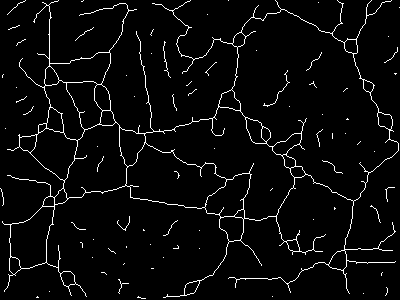
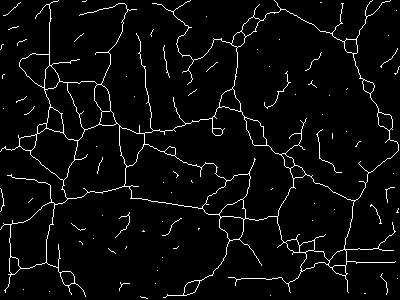
comparison with ground truth G values a 3.4% error

diff --git a/utils/ground_truth_analysis.py b/utils/ground_truth_analysis.py
@@ -1,0 +1,96 @@
+# utils/ground_truth_analysis.py
+
+import cv2
+import numpy as np
+import math
+import os
+import sys
+sys.path.append(os.path.dirname(os.path.dirname(os.path.abspath(__file__))))
+from config import SEGMENTED_DIR, MICRONS_PER_PIXEL, NUM_TEST_LINES
+
+
+def compute_gt_skeleton(seg_path):
+    """
+    Convert ground truth filled-region image into a boundary skeleton
+    so we can run the same ASTM analysis on it.
+    Ground truth: white = grain interior, black = boundaries.
+    We extract the boundary edges from it.
+    """
+    seg = cv2.imread(seg_path, cv2.IMREAD_GRAYSCALE)
+    if seg is None:
+        return None
+
+    # Threshold to clean binary
+    _, binary = cv2.threshold(seg, 127, 255, cv2.THRESH_BINARY)
+
+    # Extract boundaries by finding edges between grain regions
+    # Canny on the ground truth gives us the boundary lines
+    boundaries = cv2.Canny(binary, 10, 50)
+
+    # Dilate slightly to ensure connected boundaries
+    kernel = cv2.getStructuringElement(cv2.MORPH_ELLIPSE, (3, 3))
+    boundaries = cv2.dilate(boundaries, kernel, iterations=1)
+
+    return boundaries, seg
+
+
+def analyze_ground_truth(image_filename):
+    """
+    Run ASTM intercept analysis on the ground truth segmentation.
+    Returns G number from ground truth.
+    """
+    name = os.path.splitext(image_filename)[0]
+    seg_path = os.path.join(SEGMENTED_DIR, f"{name}_seg.jpg")
+
+    if not os.path.exists(seg_path):
+        print(f"  No ground truth found for {image_filename}")
+        return None
+
+    result = compute_gt_skeleton(seg_path)
+    if result is None:
+        return None
+
+    gt_skeleton, seg = result
+    h, w = gt_skeleton.shape
+
+    # Run same ASTM intercept counting on ground truth skeleton
+    test_lines = []
+    for i in range(1, NUM_TEST_LINES + 1):
+        y = int(h * i / (NUM_TEST_LINES + 1))
+        test_lines.append(("H", y))
+    for i in range(1, NUM_TEST_LINES + 1):
+        x = int(w * i / (NUM_TEST_LINES + 1))
+        test_lines.append(("V", x))
+
+    total_length_mm     = 0
+    total_intersections = 0
+
+    for line_type, pos in test_lines:
+        if line_type == "H":
+            line_pixels    = gt_skeleton[pos, :]
+            line_length_px = w
+        else:
+            line_pixels    = gt_skeleton[:, pos]
+            line_length_px = h
+
+        line_length_mm = line_length_px * MICRONS_PER_PIXEL / 1000
+
+        intersections = 0
+        in_boundary   = False
+        for px in line_pixels:
+            if px > 127 and not in_boundary:
+                intersections += 1
+                in_boundary = True
+            elif px <= 127:
+                in_boundary = False
+
+        total_length_mm     += line_length_mm
+        total_intersections += intersections
+
+    if total_intersections == 0:
+        return None
+
+    mean_intercept_mm = total_length_mm / total_intersections
+    G = (-6.6457 * math.log10(mean_intercept_mm)) - 3.298
+
+    return G

diff --git a/stages/preprocessing.py b/stages/preprocessing.py
@@ -1,6 +1,7 @@
 # stages/preprocessing.py
 
 import cv2
+import numpy as np
 import sys
 import os
 sys.path.append(os.path.dirname(os.path.dirname(os.path.abspath(__file__))))
@@ -9,7 +10,8 @@ from config import GAUSSIAN_KERNEL, CLAHE_CLIP_LIMIT, CLAHE_TILE_SIZE
 def preprocess(image_path):
     """
     Stage 1: Load image, convert to grayscale,
-    denoise with Gaussian blur, enhance contrast with CLAHE.
+    denoise with bilateral filter, sharpen with unsharp masking,
+    enhance contrast with CLAHE.
     Returns: original_bgr, grayscale, denoised, enhanced
     """
 
@@ -21,14 +23,21 @@ def preprocess(image_path):
     # Step 2 - Convert to grayscale
     gray = cv2.cvtColor(original, cv2.COLOR_BGR2GRAY)
 
-    # Step 3 - Bilateral filter: smooths texture, keeps edges sharp
+    # Step 3 - Bilateral filter: smooths grain interiors
+    # while keeping boundary edges sharp
     denoised = cv2.bilateralFilter(gray, d=9, sigmaColor=75, sigmaSpace=75)
 
-    # Step 4 - CLAHE contrast enhancement
+    # Step 4 - Unsharp masking: sharpens boundary edges
+    # Works by subtracting a blurred version from the original
+    # Result: edges become crisper and more detectable
+    blur = cv2.GaussianBlur(denoised, GAUSSIAN_KERNEL, 0)
+    unsharp = cv2.addWeighted(denoised, 1.5, blur, -0.5, 0)
+
+    # Step 5 - CLAHE contrast enhancement
     clahe = cv2.createCLAHE(
         clipLimit=CLAHE_CLIP_LIMIT,
         tileGridSize=CLAHE_TILE_SIZE
     )
-    enhanced = clahe.apply(denoised)
+    enhanced = clahe.apply(unsharp)
 
     return original, gray, denoised, enhanced

diff --git a/test_gt_comparison.py b/test_gt_comparison.py
@@ -1,0 +1,53 @@
+# test_gt_comparison.py
+
+import os
+from pipeline import run_pipeline
+from utils.ground_truth_analysis import analyze_ground_truth
+
+images = [
+    "A_01_01.png", "A_01_02.png", "A_01_03.png",
+    "A_02_01.png", "A_02_02.png",
+    "A_03_01.png", "A_03_02.png", "A_03_03.png",
+    "A_04_01.png", "A_04_02.png", "A_04_03.png", "A_04_04.png",
+    "B_01_01.png", "B_01_02.png", "B_01_03.png",
+]
+
+print(f"\n{'='*70}")
+print(f"{'G VALUE COMPARISON: Pipeline vs Ground Truth':^70}")
+print(f"{'='*70}")
+print(f"{'Image':<20} {'G Pipeline':>12} {'G GroundTruth':>14} {'Error':>8} {'Error%':>8}")
+print(f"{'-'*70}")
+
+errors = []
+for img in images:
+    # Run pipeline
+    enhanced, skeleton, markers, astm, metrics = run_pipeline(
+        img, show_steps=False
+    )
+
+    if astm is None:
+        continue
+
+    # Get ground truth G
+    gt_G = analyze_ground_truth(img)
+
+    if gt_G is None:
+        print(f"{img:<20} {astm['G']:>12.2f} {'N/A':>14}")
+        continue
+
+    error    = abs(astm["G"] - gt_G)
+    error_pct = (error / abs(gt_G)) * 100
+    errors.append(error_pct)
+
+    # Flag large errors
+    flag = " ⚠" if error_pct > 15 else ""
+
+    print(f"{img:<20} {astm['G']:>12.2f} {gt_G:>14.2f} "
+          f"{error:>8.2f} {error_pct:>7.1f}%{flag}")
+
+print(f"{'-'*70}")
+if errors:
+    print(f"{'AVERAGE ERROR':<20} {'':>12} {'':>14} "
+          f"{sum(errors)/len(errors):>8.2f} "
+          f"{sum(errors)/len(errors):>7.1f}%")
+print(f"{'='*70}")

diff --git a/pipeline.py b/pipeline.py
@@ -56,12 +56,13 @@ def run_pipeline(image_filename, show_steps=False):
 
 
 if __name__ == "__main__":
+
     images = [
-        "A_01_01.png",
-        "A_02_01.png",
-        "A_03_01.png",
-        "B_01_01.png",
-        "B_01_02.png",
+        "A_01_01.png", "A_01_02.png", "A_01_03.png",
+        "A_02_01.png", "A_02_02.png",
+        "A_03_01.png", "A_03_02.png", "A_03_03.png",
+        "A_04_01.png", "A_04_02.png", "A_04_03.png", "A_04_04.png",
+        "B_01_01.png", "B_01_02.png", "B_01_03.png",
     ]
 
     print(f"Running pipeline on {len(images)} images...\n")

diff --git a/debug.py b/debug.py
@@ -1,0 +1,12 @@
+# debug_astm.py
+import math
+
+mean_intercept_mm = 0.017112
+log_val = math.log10(mean_intercept_mm)
+print(f"log10({mean_intercept_mm}) = {log_val}")
+
+G_correct  = (-6.6457 * log_val) - 3.298
+G_wrong    = (6.643856 * log_val) - 3.288
+
+print(f"G with negative coefficient = {G_correct:.2f}")
+print(f"G with positive coefficient = {G_wrong:.2f}")
